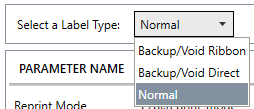
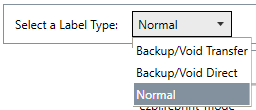
Renamed PrinterSetting named PrinterParameter and moved it to a new model.

diff --git a/ZPrinterConfig/WindowViews/MainWindowView.xaml b/ZPrinterConfig/WindowViews/MainWindowView.xaml
@@ -90,14 +90,46 @@
             </StackPanel>
         </Border>
 
+        <!--<Popup x:Name="popDescription">
+            <TextBlock Text="Hello"/>
+        </Popup>-->
+        
         <Border Grid.Row="2" BorderThickness="1" BorderBrush="{DynamicResource MahApps.Brushes.Accent}" Margin="3">
 
             <DataGrid x:Name="dgBVParameters" ItemsSource="{Binding BVSettings}" AutoGenerateColumns="False" CanUserAddRows="False" CanUserSortColumns="False"
                           Margin="3" SelectionChanged="DataGrid_SelectionChanged">
                 <DataGrid.Columns>
-                    <DataGridTextColumn Header="Parameter Name"  Binding="{Binding Name, Mode=OneWay}"/>
 
-                    <DataGridTextColumn Header="Parameter Path" Binding="{Binding ParameterName, Mode=OneWay}"/>
+                    <DataGridTemplateColumn Header="Parameter Name" >
+                        <DataGridTemplateColumn.CellTemplate>
+                            <DataTemplate>
+                                <StackPanel Orientation="Horizontal">
+                                    <Label Content="{Binding Name, Mode=OneWay}" ToolTip="{Binding Description}"/>
+                                    <!--<Button Click="btnDescription_Click" Style="{DynamicResource MahApps.Styles.Button.Chromeless}">
+                                        <IconPacks:PackIconUnicons Kind="CommentInfo" Height="15" Width="15" ToolTip=""/>
+                                    </Button>-->
+                                    
+                                </StackPanel>
+                            </DataTemplate>
+                        </DataGridTemplateColumn.CellTemplate>
+                    </DataGridTemplateColumn>
+
+                    <DataGridTemplateColumn Header="Parameter Path">
+                                                <DataGridTemplateColumn.CellTemplate>
+                            <DataTemplate>
+                                <StackPanel Orientation="Horizontal">
+                                    <Label ToolTip="{Binding Description}">
+                                        <TextBlock Text="{Binding ParameterName, Mode=OneWay}"/>
+                                    </Label>
+                                    <!--<Button Click="btnDescription_Click" Style="{DynamicResource MahApps.Styles.Button.Chromeless}">
+                                        <IconPacks:PackIconUnicons Kind="CommentInfo" Height="15" Width="15" ToolTip=""/>
+                                    </Button>-->
+                                    
+                                </StackPanel>
+                            </DataTemplate>
+                        </DataGridTemplateColumn.CellTemplate>
+                    </DataGridTemplateColumn>
+                    
 
                     <DataGridTextColumn Header="Options" Binding="{Binding Options, Mode=OneWay}"/>
 

diff --git a/ZPrinterConfig/WindowViewModels/MainWindowViewModel.cs b/ZPrinterConfig/WindowViewModels/MainWindowViewModel.cs
@@ -9,6 +9,7 @@ using System.Threading;
 using System.Threading.Tasks;
 using System.Windows.Input;
 using ZPrinterConfig.Controllers;
+using ZPrinterConfig.Models;
 
 namespace ZPrinterConfig.WindowViewModele
 {
@@ -20,7 +21,7 @@ namespace ZPrinterConfig.WindowViewModele
         private PrinterController Printer { get; } = new PrinterController();
 
         public string Host { get => App.Settings.GetValue("PrinterHost", ""); set => App.Settings.SetValue("PrinterHost", value); }
-        public string Port { get => App.Settings.GetValue("PrinterPort", "9100"); set { App.Settings.SetValue("PrinterPort", value); OnPropertyChanged("Port"); } }
+        public string Port { get => App.Settings.GetValue("PrinterPort", "6101"); set { App.Settings.SetValue("PrinterPort", value); OnPropertyChanged("Port"); } }
 
         public string Status
         {
@@ -37,20 +38,20 @@ namespace ZPrinterConfig.WindowViewModele
         }
         private string _SocketStatus;
 
-        public ObservableCollection<PrinterController.PrinterSetting> BVSettings { get; } = new ObservableCollection<PrinterController.PrinterSetting>()
+        public ObservableCollection<PrinterParameter> BVSettings { get; } = new ObservableCollection<PrinterParameter>()
         {
-            new PrinterController.PrinterSetting() { Name= "Reprint Mode", ParameterName = "ezpl.reprint_mode", Default = "off", Options = "on, off" },
-            new PrinterController.PrinterSetting() { Name= "Reprint Void", ParameterName = "ezpl.reprint_void", Default = "off", Options = "on, off, custom" },
-            new PrinterController.PrinterSetting() { Name= "Reprint Void Length", ParameterName = "ezpl.reprint_void_length", Default = "203", Options = "1 - 32000" },
-            new PrinterController.PrinterSetting() { Name= "Reprint Void Pattern", ParameterName = "ezpl.reprint_void_pattern", Default = "1", Options = "1, 2, 3, 4" , Recommended = ""},
-            new PrinterController.PrinterSetting() { Name= "Start Print Signal", ParameterName = "device.applicator.start_print_mode", Default = "level",  Options = "level, pulse" },
-            new PrinterController.PrinterSetting() { Name= "Tear Off", ParameterName = "ezpl.tear_off", Default = "0",  Options = "-120 - 1200" },
-            new PrinterController.PrinterSetting() { Name= "Print Mode", ParameterName = "media.printmode", Default = "tear off",  Options = "tear off" },
-            new PrinterController.PrinterSetting() { Name= "Applicator", ParameterName = "device.applicator.end_print", Default = "1",  Options = "off, 1" },
+            new PrinterParameter() { Name= "Reprint Mode", ParameterName = "ezpl.reprint_mode", Default = "off", Options = "on, off", Description = "This setting turns on/off the reprint mode." },
+            new PrinterParameter() { Name= "Reprint Void", ParameterName = "ezpl.reprint_void", Default = "off", Options = "on, off, custom", Description = "This setting allows the user to enable the backup and void functionality (if reprint_mode is on)." },
+            new PrinterParameter() { Name= "Reprint Void Length", ParameterName = "ezpl.reprint_void_length", Default = "203", Options = "1 - 32000", Description = "This setting allows the user to set a custom backup and void distance in dots.\r\nThis is only applied when ezpl.reprint_void is set to \"custom\"." },
+            new PrinterParameter() { Name= "Reprint Void Pattern", ParameterName = "ezpl.reprint_void_pattern", Default = "1", Options = "1, 2, 3, 4" , Recommended = "", Description = "This setting allows the user to set which void pattern to use.\r\nThere are four different patterns provided depending on customer preference.\r\nDifferent patterns have different levels of black applied across the\r\ncourse of the label, which can affect physical behavior such as labels sticking\r\nto ribbon, ribbon wrinkle, or ribbon tears.\r\nPattern two is specifically chosen to prevent any barcodes from being scannable after the void is applied."},
+            new PrinterParameter() { Name= "Start Print Signal", ParameterName = "device.applicator.start_print_mode", Default = "level",  Options = "level, pulse", Description = "This setting selects the applicator port START PRINT mode of operation." },
+            new PrinterParameter() { Name= "Tear Off", ParameterName = "ezpl.tear_off", Default = "0",  Options = "-120 - 1200" },
+            new PrinterParameter() { Name= "Print Mode", ParameterName = "media.printmode", Default = "tear off",  Options = "tear off" },
+            new PrinterParameter() { Name= "Applicator", ParameterName = "device.applicator.end_print", Default = "1",  Options = "off, 1" },
         };
         public ObservableCollection<string> BVOperationTypes { get; } = new ObservableCollection<string>()
         {
-            "Backup/Void Ribbon",
+            "Backup/Void Transfer",
             "Backup/Void Direct",
             "Normal",
         };
@@ -66,7 +67,7 @@ namespace ZPrinterConfig.WindowViewModele
         public ICommand BVCopyRecommended { get; }
         public ICommand BVWrite { get; }
 
-        public ObservableCollection<PrinterController.PrinterSetting> Settings { get; } = new ObservableCollection<PrinterController.PrinterSetting>();
+        public ObservableCollection<PrinterParameter> Settings { get; } = new ObservableCollection<PrinterParameter>();
 
         public ICommand GetAllSettings { get; }
 
@@ -131,7 +132,7 @@ namespace ZPrinterConfig.WindowViewModele
 
         private void BVSelectedOperationType_Changed(string value)
         {
-            if (value == "Backup/Void Ribbon")
+            if (value == "Backup/Void Transfer")
             {
                 BVSettings.First(s => s.ParameterName == "ezpl.reprint_mode").Recommended = "on";
                 BVSettings.First(s => s.ParameterName == "ezpl.reprint_void").Recommended = "custom";
@@ -180,7 +181,7 @@ namespace ZPrinterConfig.WindowViewModele
 
                 if (Printer.Connect(ip, Port))
                 {
-                    PrinterController.PrinterSetting ps = (PrinterController.PrinterSetting)parameter;
+                    PrinterParameter ps = (PrinterParameter)parameter;
 
                     Printer.Send($"! U1 getvar \"{ps.ParameterName}\" \r\n");
                     string res = Printer.Recieve(1000);
@@ -210,7 +211,7 @@ namespace ZPrinterConfig.WindowViewModele
 
                 if (Printer.Connect(ip, Port))
                 {
-                    foreach (PrinterController.PrinterSetting ps in BVSettings)
+                    foreach (PrinterParameter ps in BVSettings)
                     {
                         Printer.Send($"! U1 getvar \"{ps.ParameterName}\" \r\n");
                         string res = Printer.Recieve(1000);
@@ -226,7 +227,7 @@ namespace ZPrinterConfig.WindowViewModele
         }
         private void BVCopyRecommendedAction(object parameter)
         {
-            PrinterController.PrinterSetting ps = (PrinterController.PrinterSetting)parameter;
+            PrinterParameter ps = (PrinterParameter)parameter;
 
             if (string.IsNullOrEmpty(ps.Recommended))
                 return;
@@ -253,7 +254,7 @@ namespace ZPrinterConfig.WindowViewModele
 
                 if (Printer.Connect(ip, Port))
                 {
-                    PrinterController.PrinterSetting ps = (PrinterController.PrinterSetting)parameter;
+                    PrinterParameter ps = (PrinterParameter)parameter;
 
                     //Printer.Send($"! U1 getvar \"\" \"\"\r\n");
                     Printer.Send($"! U1 setvar \"{ps.ParameterName}\" \"{ps.WriteValue}\"\r\n ");
@@ -312,7 +313,7 @@ namespace ZPrinterConfig.WindowViewModele
             {
                 Status = "Reading parameter.";
 
-                PrinterController.PrinterSetting ps = (PrinterController.PrinterSetting)parameter;
+                PrinterParameter ps = (PrinterParameter)parameter;
 
                 Printer.Send($"! U1 getvar \"{ps.ParameterName}\"\r\n");
                 string res = Printer.Recieve(1000, "\"");
@@ -341,7 +342,7 @@ namespace ZPrinterConfig.WindowViewModele
 
                 if (Printer.Connect(ip, Port))
                 {
-                    foreach (PrinterController.PrinterSetting ps in Settings)
+                    foreach (PrinterParameter ps in Settings)
                     {
                         if (ps.ParameterName.StartsWith("file"))
                             continue;
@@ -364,7 +365,7 @@ namespace ZPrinterConfig.WindowViewModele
         {
             _ = Task.Run(ResetStatus);
 
-            PrinterController.PrinterSetting ps = (PrinterController.PrinterSetting)parameter;
+            PrinterParameter ps = (PrinterParameter)parameter;
 
             if (string.IsNullOrEmpty(ps.WriteValue))
                 return;

diff --git a/ZPrinterConfig/Controllers/PrinterController.cs b/ZPrinterConfig/Controllers/PrinterController.cs
@@ -4,29 +4,13 @@ using System.IO;
 using System.Linq;
 using System.Text;
 using System.Threading.Tasks;
+using ZPrinterConfig.Models;
 
 namespace ZPrinterConfig.Controllers
 {
     public class PrinterController
     {
-        public class PrinterSetting : Core.BaseViewModel
-        {
-            public string Name { get; internal set; }
 
-            public string ParameterName { get; internal set; }
-
-            public string WriteValue { get => App.Settings.GetValue(ParameterName, Default);
-                set { App.Settings.SetValue(ParameterName, value); OnPropertyChanged("WriteValue"); }
-            }
-            public string ReadValue { get => _ReadValue; set => SetProperty(ref _ReadValue, value); }
-            private string _ReadValue;
-            public string Default { get; internal set; }
-
-            public string Recommended { get => _Recommended; set => SetProperty(ref _Recommended, value); }
-            private string _Recommended;
-
-            public string Options { get; internal set; }
-        }
 
         private AsyncSocket.ASocketManager Socket { get; }
 
@@ -105,9 +89,9 @@ namespace ZPrinterConfig.Controllers
 
         }
 
-        public List<PrinterSetting> GetAllSettings(string ip, string port)
+        public List<PrinterParameter> GetAllSettings(string ip, string port)
         {
-            List<PrinterSetting> settings = new List<PrinterSetting>();
+            List<PrinterParameter> settings = new List<PrinterParameter>();
 
             if (Connect(ip, port))
             {
@@ -116,7 +100,7 @@ namespace ZPrinterConfig.Controllers
                 foreach(var line in Socket.Receive(1000, "\"\"").Split('\n'))
                 {
                     if(!line.TrimEnd('\r').EndsWith("."))
-                        settings.Add(new PrinterSetting() { ParameterName = line.TrimEnd('\r') });
+                        settings.Add(new PrinterParameter() { ParameterName = line.TrimEnd('\r') });
                 }
                 settings.Remove(settings.Last());
 
@@ -136,7 +120,7 @@ namespace ZPrinterConfig.Controllers
                                 try
                                 {
                                     name = name.TrimEnd(',');
-                                    PrinterSetting setting = settings.First(x => x.ParameterName == name); 
+                                    PrinterParameter setting = settings.First(x => x.ParameterName == name); 
                                     setting.Options = line.Substring(line.IndexOf("Choices:") + "Choices:".Length);
                                 }
                                 catch 

diff --git a/ZPrinterConfig/WindowViews/MainWindowView.xaml.cs b/ZPrinterConfig/WindowViews/MainWindowView.xaml.cs
@@ -13,6 +13,7 @@ using System.Windows.Input;
 using System.Windows.Media;
 using System.Windows.Media.Imaging;
 using System.Windows.Shapes;
+using ZPrinterConfig.Models;
 using ZPrinterConfig.WindowViewModele;
 
 namespace ZPrinterConfig.WindowViews
@@ -33,7 +34,7 @@ namespace ZPrinterConfig.WindowViews
 
         private void btnResetPortNumber_Click(object sender, RoutedEventArgs e)
         {
-            ((MainWindowViewModel)DataContext).Port = "9100";
+            ((MainWindowViewModel)DataContext).Port = "6101";
         }
 
         private void MetroWindow_PreviewKeyDown(object sender, KeyEventArgs e)
@@ -53,7 +54,7 @@ namespace ZPrinterConfig.WindowViews
 
         private void TextBox_TextChanged(object sender, TextChangedEventArgs e)
         {
-            ((Controllers.PrinterController.PrinterSetting)((TextBox)e.Source).DataContext).WriteValue = ((TextBox)e.Source).Text;
+            ((PrinterParameter)((TextBox)e.Source).DataContext).WriteValue = ((TextBox)e.Source).Text;
         }
 
         private void DataGrid_SelectionChanged(object sender, SelectionChangedEventArgs e)
@@ -61,5 +62,12 @@ namespace ZPrinterConfig.WindowViews
             dgBVParameters.UnselectAll();
             dgBVParameters.UnselectAllCells();
         }
+
+        //private void btnDescription_Click(object sender, RoutedEventArgs e)
+        //{
+        //    popDescription.IsOpen = false;
+        //    popDescription.PlacementTarget = (Button)sender;
+        //    popDescription.IsOpen = true;
+        //}
     }
 }

diff --git a/ZPrinterConfig/Models/PrinterParameter.cs b/ZPrinterConfig/Models/PrinterParameter.cs
@@ -1,0 +1,31 @@
+using System;
+using System.Collections.Generic;
+using System.Linq;
+using System.Text;
+using System.Threading.Tasks;
+
+namespace ZPrinterConfig.Models
+{
+    public class PrinterParameter : Core.BaseViewModel
+    {
+        public string Name { get; internal set; }
+
+        public string ParameterName { get; internal set; }
+
+        public string WriteValue
+        {
+            get => App.Settings.GetValue(ParameterName, Default);
+            set { App.Settings.SetValue(ParameterName, value); OnPropertyChanged("WriteValue"); }
+        }
+        public string ReadValue { get => _ReadValue; set => SetProperty(ref _ReadValue, value); }
+        private string _ReadValue;
+        public string Default { get; internal set; }
+
+        public string Recommended { get => _Recommended; set => SetProperty(ref _Recommended, value); }
+        private string _Recommended;
+
+        public string Options { get; internal set; }
+
+        public string Description { get; internal set; }
+    }
+}

diff --git a/README.md b/README.md
@@ -6,5 +6,7 @@ This is a utility program used to configure Backup and Void parameters within th
 
 ![](https://github.com/ZeroxCorbin/ZPrinterConfig/blob/master/ZPrinterConfig/Assets/HelpImages/PrinterConnectionDetails.png)
 
-Enter the IP address or hostname of the Zebra printer. The printer's current IP address is displayed on the printer's home screen. It is the same IP used for the web interface.
-Enter the IP port number the printer uses for IP communications. The dafault port number is 6101. The alternate is 9100. Both can be displayed on the printer's network screen.
+1.  Enter the IP address or hostname of the Zebra printer.
+    1.  The printer's current IP address is displayed on the printer's home screen. It is the same IP used for the web interface.
+2.  Enter the IP port number the printer uses for IP communications.
+    1.  The default port number is 6101. The alternate is 9100. Both can be displayed on the printer's network screen.
